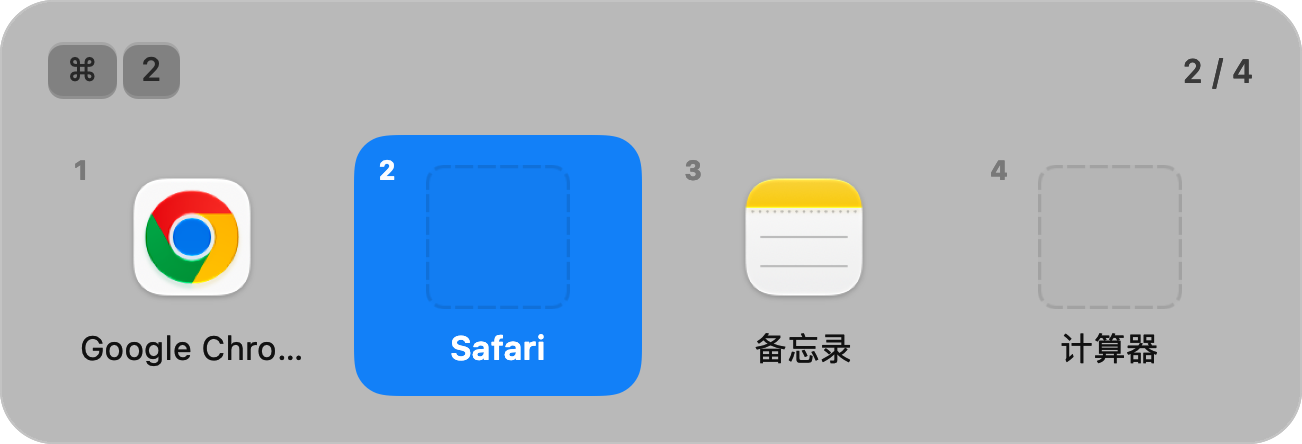
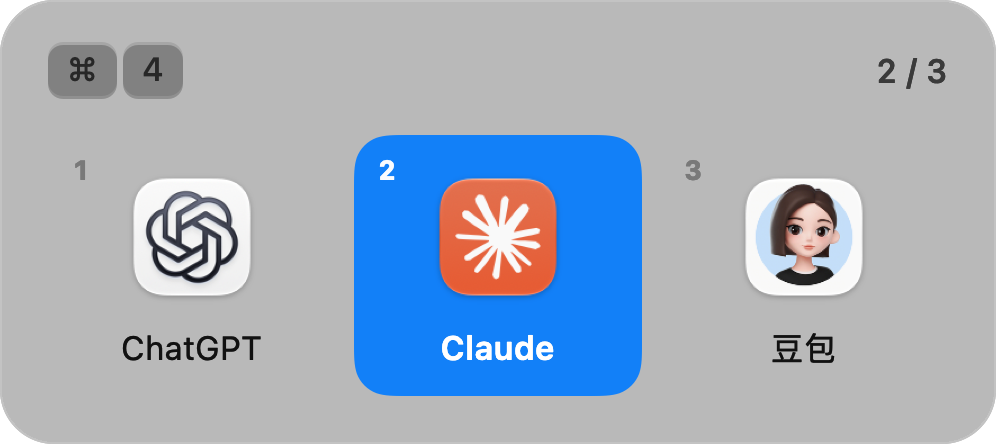
sync: mirror private repo @ 1025ad8

diff --git a/Sources/Chord/HUDRender.swift b/Sources/Chord/HUDRender.swift
@@ -113,14 +113,15 @@ func runRenderHUDAndExit() -> Never {
     print("已渲染：\(path)")
     print("  尺寸 \(Int(content.frame.width))x\(Int(content.frame.height))，3 倍输出")
 
-    // app 层也渲一张（-apps 后缀）：窗口层那张只看得到一个 app 格子
-    let appCandidates = ["/Applications/Google Chrome.app", "/Applications/Safari.app",
-                         "/System/Applications/Notes.app", "/System/Applications/Calculator.app"]
+    // app 层也渲一张（-apps 后缀）：窗口层那张只看得到一个 app 格子。
+    // 样例取 ⌘4 那组（AI 助手）——和配置窗截图里的 ⌘4 是同一组，两张图讲同一件事。
+    let appCandidates = ["/Applications/ChatGPT.app", "/Applications/Claude.app",
+                         "/Applications/Doubao.app"]
     let groupApps = appCandidates.filter { FileManager.default.fileExists(atPath: $0) }.map {
         AppRef(path: $0, displayName: FileManager.default.displayName(atPath: $0)
                    .replacingOccurrences(of: ".app", with: ""))
     }
-    let appsState = GroupSwitcher.State(shortcut: "⌘2", layer: .apps, apps: groupApps,
+    let appsState = GroupSwitcher.State(shortcut: "⌘4", layer: .apps, apps: groupApps,
                                         appIndex: min(1, max(0, groupApps.count - 1)),
                                         windows: [], windowIndex: 0)
     let appsPath = (path as NSString).deletingPathExtension + "-apps.png"
